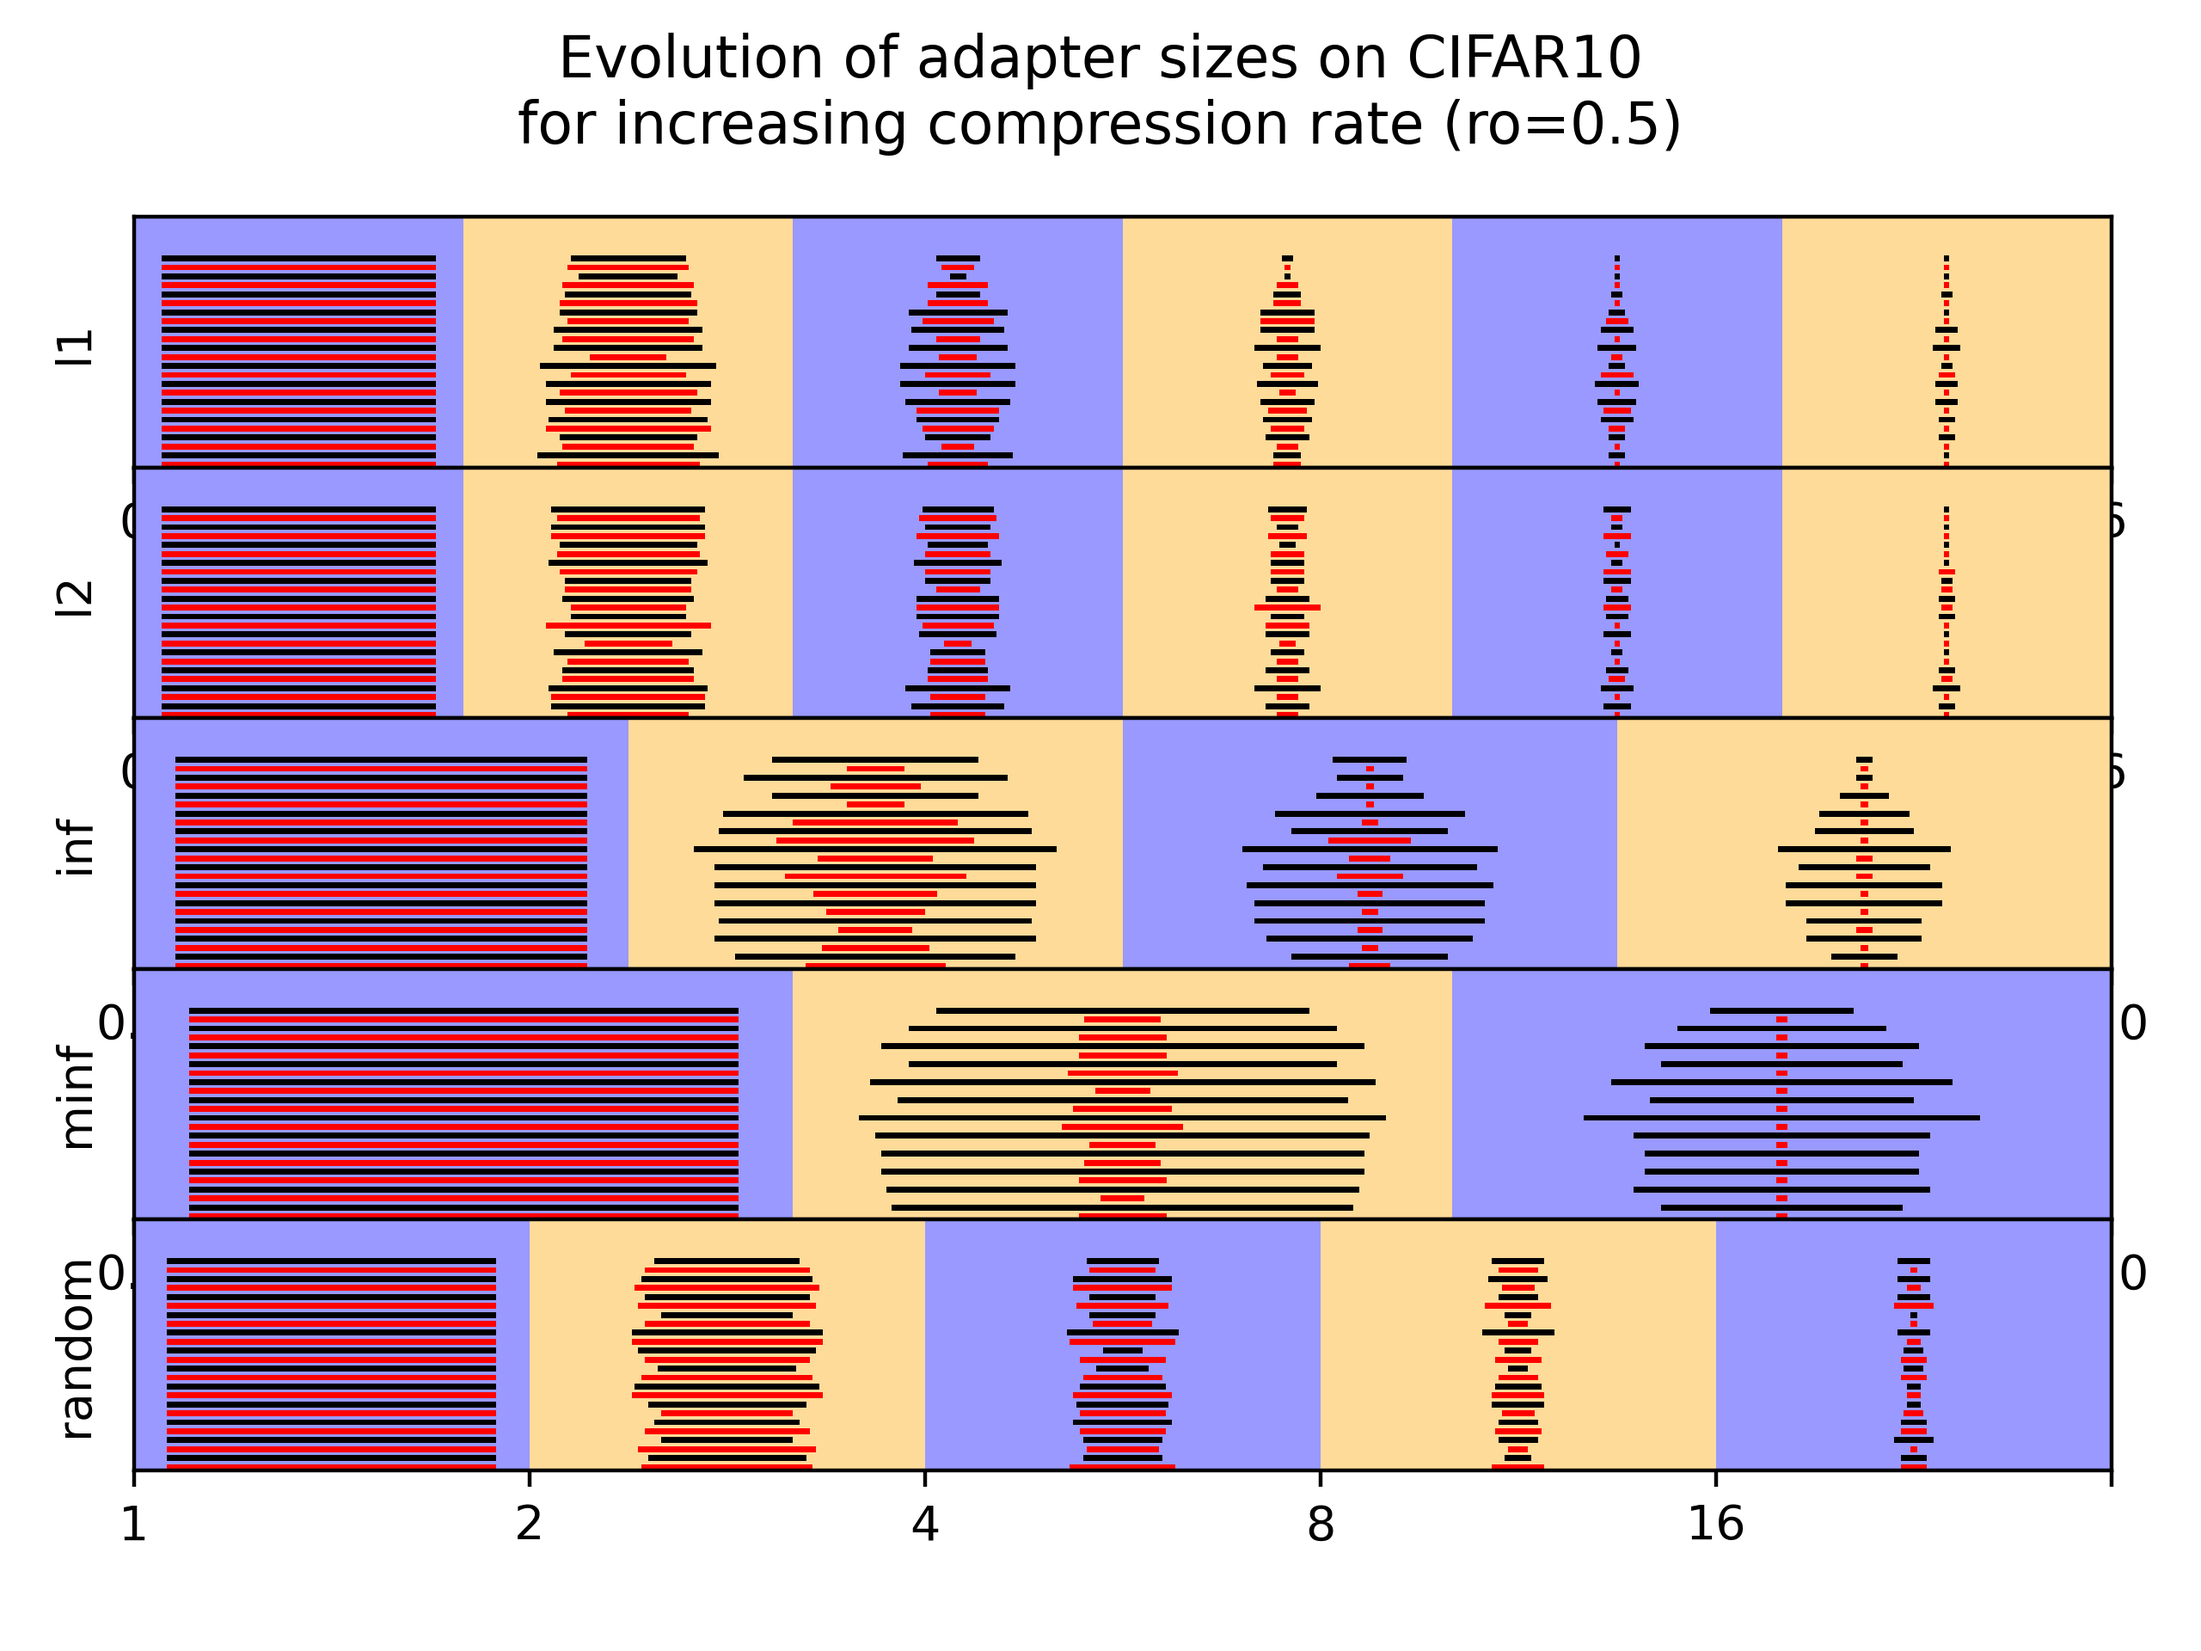
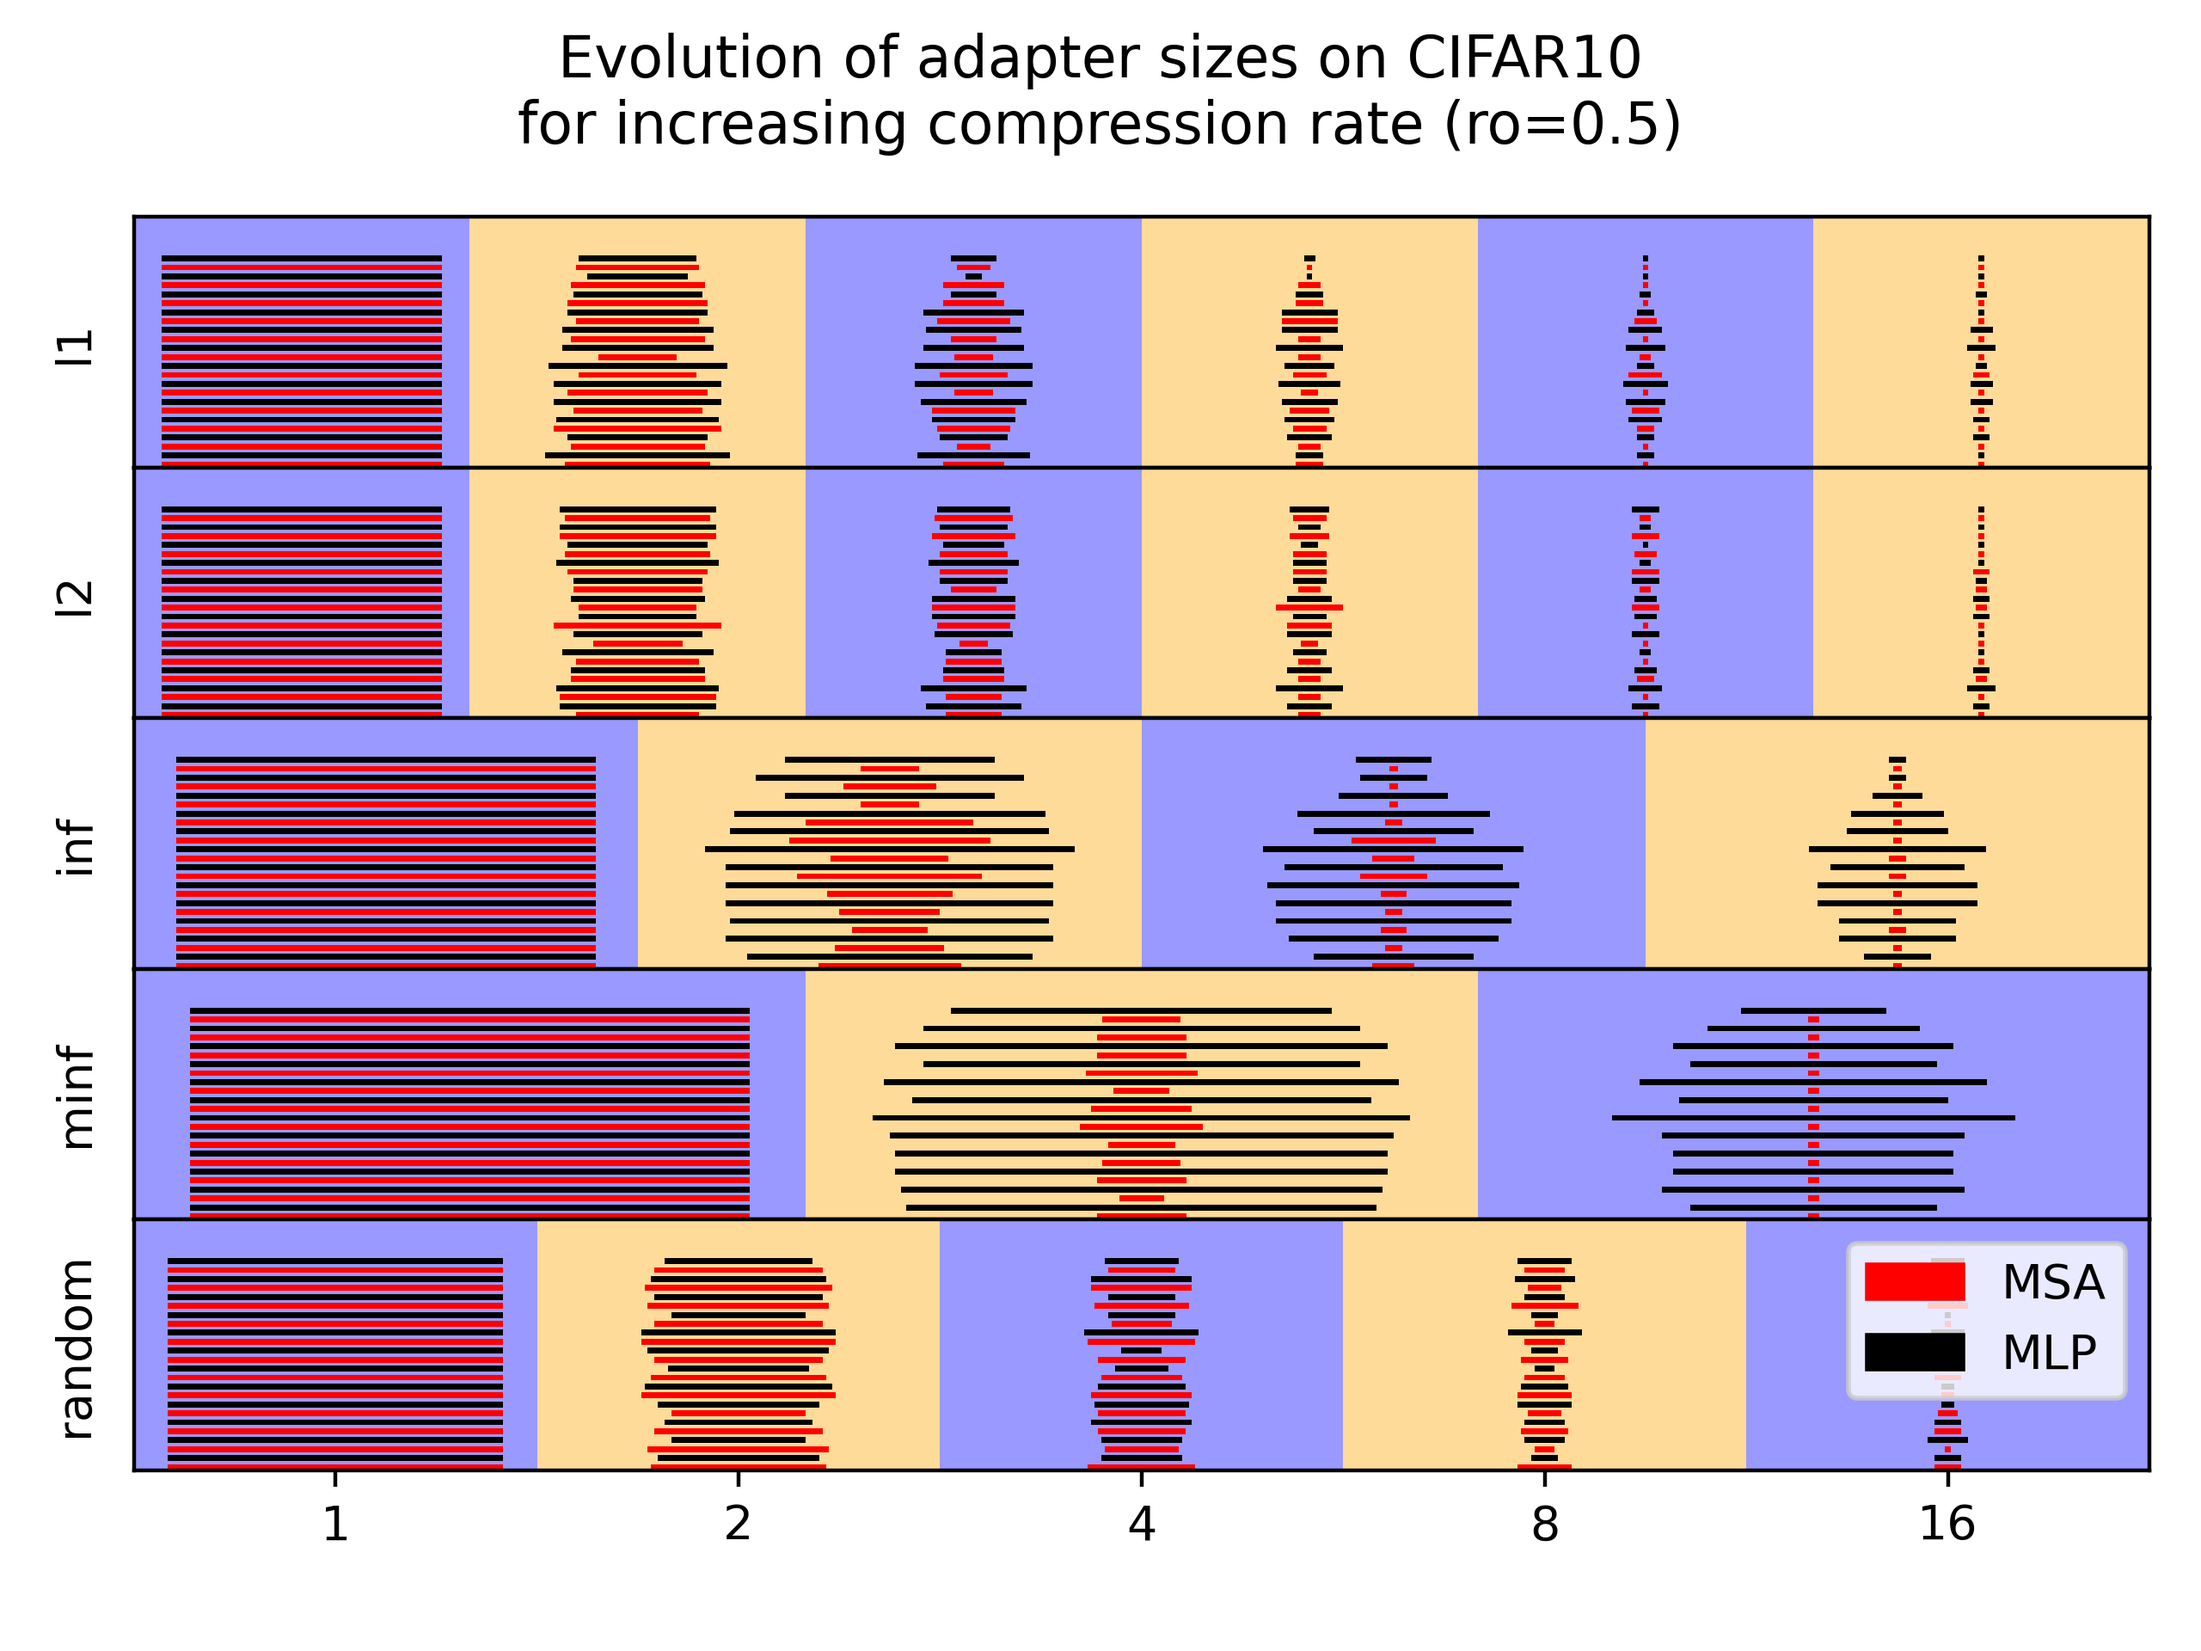
enum

diff --git a/src/viz.py b/src/viz.py
@@ -121,13 +121,14 @@ def illustrate_layer_shrink(opt):
 		else:
 			ax.set_xticks(np.arange(len(compRates))+0.5)
 			ax.set_xticklabels([str(int(x)) for x in compRates])
+			ax.set_xlabel(r"Increasing compression rate $\sigma$")
 
 	interm, output = mpatches.Patch(color='red', label='MSA'), mpatches.Patch(color='black', label='MLP')
 	axes[-1].legend(handles=[interm, output])
 
 
 	fig.tight_layout(rect=[0, 0.03, 1, 0.9])
-	plt.suptitle("Evolution of adapter sizes on " + opt.dsName.upper() + "\nfor increasing compression rate (ro=0.5)")
+	plt.suptitle("Evolution of adapter sizes on " + opt.dsName.upper() + r"\nfor increasing compression rate ($\rho$=0.5)")
 	plt.subplots_adjust(hspace=.0)
 
 	saveFig(opt, "layerShrink");
